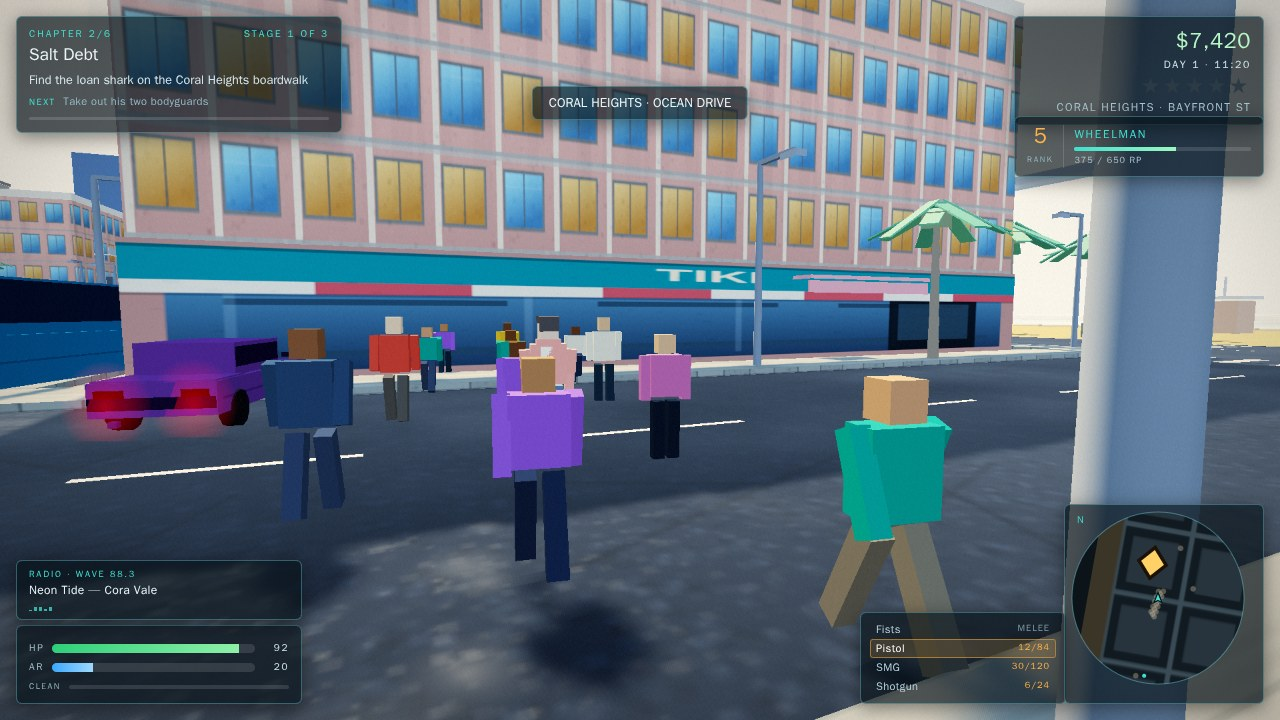
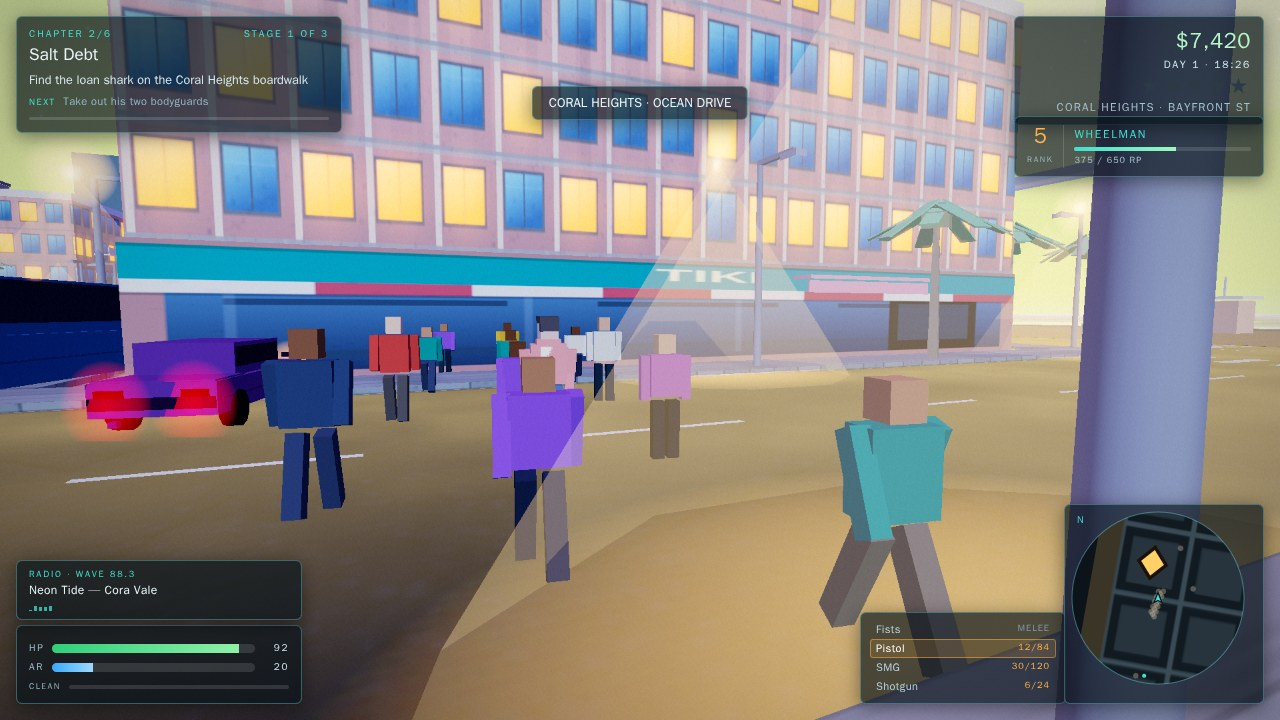
Frame a dedicated cover shot with hero lighting and a title block

diff --git a/game/src/systems/shots.js b/game/src/systems/shots.js
@@ -64,7 +64,7 @@ export class Autopilot {
  * The yaw figures are tuned against the lens, not picked by eye: at 64 degrees vertical over 16:9
  * the horizontal half angle is 48 degrees, so the third line sits about 0.35 rad off axis.
  */
-function frameShot(game, world, { fov = 64, distance = 0, height = -0.4, yaw = 0, lateral = 0, aim = 0, target = 0, exposure = 1 } = {}) {
+function frameShot(game, world, { fov = 64, distance = 0, height = -0.4, yaw = 0, lateral = 0, aim = 0, target = 0, exposure = 1, roll = 0 } = {}) {
   world.camera.fov = fov;
   world.camera.updateProjectionMatrix();
   world.post.exposureScale = exposure;
@@ -75,6 +75,7 @@ function frameShot(game, world, { fov = 64, distance = 0, height = -0.4, yaw = 0
   rig.lateralBias = lateral;
   rig.aimBias = aim;
   rig.targetBias = target;
+  rig.rollBias = roll;
 }
 
 /** Give the player a car at a spot, already seated, so the driving shots start in the driver's seat. */
@@ -249,7 +250,7 @@ export function redressChase(game, world) {
 /* ------------------------------------------------------------------ foot: daytime sidewalk */
 
 export function setupFoot(game, world) {
-  world.day.setHour(11.3);
+  world.day.setHour(18.4);
   game.money = 7420;
   game.rep = 2975;
   game.health = 92;
@@ -267,8 +268,9 @@ export function setupFoot(game, world) {
   game.walker.yaw = Math.PI / 2;
   // wide and low, walker on the left third: the subtitle box sits dead centre at the bottom of the
   // frame, so the camera stays far enough back to keep the whole body above it while the extra
-  // lens width carries the street either side.
-  frameShot(game, world, { distance: 2.4, height: -0.5, yaw: 0.18, lateral: 1.2, aim: -2.6, target: -0.45 });
+  // lens width carries the street either side. Dusk now, so the exposure comes down off the
+  // midday key: the shot is graded to sit with the other three, not to be the bright one.
+  frameShot(game, world, { distance: 2.4, height: -0.5, yaw: 0.18, lateral: 1.2, aim: -2.6, target: -0.45, exposure: 0.55 });
   game.rig.snap({ x: 196, z: 125.4, y: 0.19, yaw: Math.PI / 2, speed: 0, driving: false });
   quietMission(game, 1, 0);
   return {
@@ -401,6 +403,98 @@ export function redressDrive(game, world) {
   world.traffic.syncInstances(0.0001, world.day.lampGlow);
 }
 
+/* ------------------------------------------------------------------ cover: hero key art */
+
+/**
+ * The cover. Same coast road, same coupe, same hour as the drive still, but framed as key art
+ * rather than as a viewport: a longer 52 degree lens, the rig dropped below the boot line and swung
+ * 28 degrees off the rear axle onto the car's left rear quarter, so the coupe lands on the left
+ * third and the boulevard, the palms and the setting sun open across the right two thirds. A degree
+ * and a half of roll keeps the horizon off the pixel grid.
+ *
+ * The car is still rolling, slowly, for two reasons that show up in the pixels: the wheels turn and
+ * the headlights and tail lamps are live rather than parked geometry.
+ */
+export function setupCover(game, world) {
+  world.day.setHour(17.9);
+  game.money = 12980;
+  game.rep = 4285;
+  game.health = 100;
+  game.armour = 60;
+  game.weapon.select('pistol');
+  game.wanted = 0;
+  game.police.wanted = 0;
+  const x = CITY_HALF - 3.4;
+  const z = 150;
+  seatPlayer(game, 'coupe', x, z, Math.PI);
+  frameShot(game, world, {
+    fov: 52,
+    distance: -3.4,
+    height: -1.9,
+    yaw: 0.49,
+    lateral: 0,
+    aim: -3.2,
+    target: -0.9,
+    exposure: 0.40,
+    roll: 0.0262,
+  });
+  // slow roll: a second and a bit of throttle, then coasting, so the car ends the run at roughly
+  // 35 km/h — the wheels are turning and the lamps are live, but nothing is a blur
+  game.carPhysics.vx = 0;
+  game.carPhysics.vz = -7;
+  game.carPhysics.speed = 7;
+  quietMission(game, 2, 2);
+  return {
+    seconds: 2.4,
+    script: (t, ap) => {
+      ap.set(t < 1.3 ? ['forward'] : []);
+    },
+  };
+}
+
+/**
+ * The cover re-dress: almost nothing in frame. A cover wants one subject and clean road, so the
+ * traffic that fills the drive still is pulled back to two distant cars and the beach keeps a
+ * couple of silhouettes. No police, no toast — the HUD is hidden for this shot anyway.
+ */
+export function redressCover(game, world) {
+  const car = game.car.group.position;
+  const yaw = game.car.group.rotation.y;
+  const fx = Math.sin(yaw);
+  const fz = Math.cos(yaw);
+  const rx = Math.cos(yaw);
+  const rz = -Math.sin(yaw);
+
+  const layout = [
+    { ahead: 44, side: 0, flip: 0 },
+    { ahead: 68, side: 0, flip: 0 },
+    { ahead: 38, side: 6.8, flip: Math.PI },
+  ];
+  layout.forEach((l, i) => {
+    const c = trafficAt(world, i);
+    if (!c) return;
+    parkTrafficCar(world, c, car.x + fx * l.ahead + rx * l.side, car.z + fz * l.ahead + rz * l.side, yaw + l.flip);
+  });
+  // everything else in the pool goes home, so no car is parked on the cover's sightline
+  for (let i = layout.length; i < world.traffic.cars.length; i++) {
+    const c = world.traffic.cars[i];
+    if (c) parkTrafficCar(world, c, car.x + fx * -220, car.z + fz * -220, yaw);
+  }
+
+  for (let i = 0; i < 6; i++) {
+    const p = pedAt(world, i);
+    if (!p) continue;
+    const along = 4 + i * 5.5;
+    const out = 16 + (i % 3) * 5;
+    p.pinned = { x: car.x + fx * along + rx * out, z: car.z + fz * along + rz * out, yaw: yaw + Math.PI / 2 };
+    p.dead = false;
+    p.panic = 0;
+  }
+
+  world.pedestrians.update(0.0001, 0);
+  world.traffic.syncInstances(0.0001, world.day.lampGlow);
+}
+
 /* ------------------------------------------------------------------ mission: firefight */
 
 export function setupMission(game, world) {
@@ -495,6 +589,7 @@ export function redressMission(game, world) {
 }
 
 export const SHOTS = {
+  cover: { setup: setupCover, redress: redressCover },
   chase: { setup: setupChase, redress: redressChase },
   foot: { setup: setupFoot, redress: redressFoot },
   drive: { setup: setupDrive, redress: redressDrive },

diff --git a/game/src/render/lighting.js b/game/src/render/lighting.js
@@ -141,6 +141,87 @@ export class DayCycle {
 }
 
 /**
+ * Two lights that exist only for the cover frame: a warm key raking in from camera-left at 45
+ * degrees and a cool rim from behind the car. Neither casts a shadow — the sun already owns the
+ * shadow map, and the point of these is separation, not a second set of contact shadows.
+ *
+ * They are built switched off and only the cover shot turns them on, so every other still keeps the
+ * exact lighting it was graded with.
+ */
+export class HeroLights {
+  constructor(scene) {
+    this.scene = scene;
+    // warm, from the sunset side but off the sun's own axis so it reads as a second source
+    this.key = new THREE.DirectionalLight(0xffc48a, 0);
+    this.key.castShadow = false;
+    scene.add(this.key);
+    scene.add(this.key.target);
+    // cool, from the opposite quarter: this is what draws a bright edge down the car's flank
+    this.rim = new THREE.DirectionalLight(0x9ec8ff, 0);
+    this.rim.castShadow = false;
+    scene.add(this.rim);
+    scene.add(this.rim.target);
+    this.on = false;
+    this.left = new THREE.Vector3();
+    this.dir = new THREE.Vector3();
+    this.focus = new THREE.Vector3();
+  }
+
+  /** Switch the rig on or off for the frame; `focus` is the car the lights are aimed at. */
+  set(enabled) {
+    this.on = enabled;
+    this.key.visible = enabled;
+    this.rim.visible = enabled;
+  }
+
+  /**
+   * Place both lights relative to the final camera and the car, so the key is always camera-left at
+   * 45 degrees and the rim is always behind the car regardless of where the rig ended up.
+   */
+  update(camera, focus) {
+    if (!this.on || !focus) return;
+    this.focus.copy(focus);
+    // camera-left in world space: the camera's local -X axis
+    this.left.set(-1, 0, 0).applyQuaternion(camera.quaternion);
+    this.left.y = 0;
+    if (this.left.lengthSq() < 1e-6) this.left.set(0, 0, 1);
+    this.left.normalize();
+
+    // 45 degrees to the camera axis, on the camera's left, then 45 degrees up. The base vector has
+    // to point from the car back toward the camera: keying from the far side of the subject puts the
+    // light beyond it and lights nothing the lens can see.
+    const c45 = Math.cos(Math.PI / 4);
+    const s45 = Math.sin(Math.PI / 4);
+    this.dir.copy(camera.position).sub(this.focus);
+    this.dir.y = 0;
+    if (this.dir.lengthSq() < 1e-6) this.dir.set(0, 0, 1);
+    this.dir.normalize();
+    const hx = this.dir.x * c45 + this.left.x * s45;
+    const hz = this.dir.z * c45 + this.left.z * s45;
+    this.dir.set(hx, 0, hz).normalize();
+    this.dir.multiplyScalar(c45);
+    this.dir.y = s45;
+    this.dir.normalize();
+    this.key.position.copy(this.focus).addScaledVector(this.dir, 34);
+    this.key.target.position.copy(this.focus);
+    this.key.target.updateMatrixWorld();
+    this.key.intensity = 3.4;
+
+    // rim: from the far side of the car as seen from the camera, lifted a little
+    this.dir.copy(this.focus).sub(camera.position);
+    this.dir.y = 0;
+    if (this.dir.lengthSq() < 1e-6) this.dir.set(0, 0, 1);
+    this.dir.normalize();
+    this.dir.y = 0.42;
+    this.dir.normalize();
+    this.rim.position.copy(this.focus).addScaledVector(this.dir, 30);
+    this.rim.target.position.copy(this.focus);
+    this.rim.target.updateMatrixWorld();
+    this.rim.intensity = 1.6;
+  }
+}
+
+/**
  * A soft fill light riding on the camera. Night streets are lit by lamps that rarely point at the
  * hero, so a low-intensity, shadowless key from over the camera's shoulder is what keeps the player
  * character and their car readable in a night frame without flattening the whole scene.

diff --git a/game/src/main.js b/game/src/main.js
@@ -4,7 +4,7 @@
 import * as THREE from '../vendor/three.module.min.js';
 import { createRenderer, createCamera, handleResize, sizeForShot, PostPipeline } from './render/renderer.js';
 import { SkyDome } from './render/sky.js';
-import { DayCycle, CameraFillLight } from './render/lighting.js';
+import { DayCycle, CameraFillLight, HeroLights } from './render/lighting.js';
 import { Effects } from './render/effects.js';
 import { City } from './world/city.js';
 import { Buildings } from './world/buildings.js';
@@ -36,6 +36,8 @@ const sky = new SkyDome(scene);
 const day = new DayCycle(scene);
 const effects = new Effects(scene);
 const fill = new CameraFillLight(scene);
+// cover-only key + rim rig; built switched off, so no other shot is lit by it
+const hero = new HeroLights(scene);
 const audio = new AudioEngine();
 
 const city = new City(scene, seed);
@@ -47,7 +49,7 @@ const collision = new CollisionWorld(city);
 const pedestrians = new Pedestrians(scene, city, collision, seed + 5, 96);
 const traffic = new TrafficSystem(scene, city, seed + 6, 38);
 
-const world = { scene, city, buildings, props, coast, skyline, collision, day, effects, audio, camera, pedestrians, traffic, seed, sky, post };
+const world = { scene, city, buildings, props, coast, skyline, collision, day, effects, audio, camera, pedestrians, traffic, seed, sky, post, hero };
 const game = new Game(world);
 
 // Development aid: ?hide=nameA,nameB switches named objects off, used to bisect a bad frame.
@@ -99,6 +101,8 @@ function runShot(name) {
   const autopilot = new Autopilot();
   const setup = shot.setup(game, world);
   game.hud.show(true);
+  // the cover is key art, not a capture: every HUD panel goes away and the title block takes over
+  document.body.classList.toggle('cover-shot', name === 'cover');
   document.getElementById('title')?.classList.remove('on');
   sizeForShot(renderer, camera, 1280, 720);
 
@@ -117,6 +121,9 @@ function runShot(name) {
     ? { x: game.car.group.position.x, z: game.car.group.position.z, y: 0, yaw: game.car.group.rotation.y, speed: Math.abs(game.carPhysics.speed), driving: true }
     : { x: game.walker.x, z: game.walker.z, y: game.walker.y, yaw: game.walker.yaw, speed: 0, driving: false });
   fill.update(camera, day.night);
+  // hero key + rim: cover only, placed from the pose the camera actually settled on
+  world.hero.set(name === 'cover');
+  world.hero.update(camera, game.driving ? game.car.group.position : game.walker);
   sky.follow(camera);
   updateHud();
   game.hud.tick(0.016);

diff --git a/game/index.html b/game/index.html
@@ -116,6 +116,18 @@
   #speedo { bottom: 108px; }
   #speedo .spec { font-size: 9px; letter-spacing: 1.3px; color: #93b6c2; margin-top: 2px; }
   #speedo .dmgTxt { font-size: 8.5px; letter-spacing: 1.3px; color: var(--amber); margin-top: 3px; }
+
+  /* --- cover key art: no HUD, a title block instead ------------------------------------------- */
+  /* Hidden unless the cover shot asks for it, so the playable game never sees this. */
+  #cover-title { position: fixed; left: 56px; bottom: 52px; display: none; z-index: 4; pointer-events: none; }
+  #cover-title .name { font-size: 58px; font-weight: 800; line-height: .96; letter-spacing: 14px;
+    color: #fff5e6; text-shadow: 0 8px 34px rgba(4,8,14,.72), 0 0 2px rgba(0,0,0,.5); }
+  #cover-title .rule { width: 268px; height: 1px; margin: 15px 0 13px;
+    background: linear-gradient(90deg, rgba(255,196,138,.95), rgba(255,196,138,.12)); }
+  #cover-title .sub { font-size: 11.5px; font-variant: small-caps; letter-spacing: 5.2px;
+    color: #ffd9b0; text-shadow: 0 2px 12px rgba(4,8,14,.85); }
+  body.cover-shot #hud { display: none; }
+  body.cover-shot #cover-title { display: block; }
 </style>
 </head>
 <body>
@@ -176,6 +188,12 @@
   <div id="banner" class="panel"><div class="t" id="banTag">MISSION COMPLETE</div><div class="n" id="banName">—</div><div class="r" id="banReward">—</div></div>
   <div id="toast" class="panel">—</div>
   <div id="help">WASD move · SHIFT sprint · E enter/exit · F fire · Q weapon · H horn · C handbrake · ESC pause</div>
+</div>
+
+<div id="cover-title">
+  <div class="name">VICE HARBOR</div>
+  <div class="rule"></div>
+  <div class="sub">An open-world crime sandbox</div>
 </div>
 
 <div id="title" class="screen on">

diff --git a/game/src/systems/camera.js b/game/src/systems/camera.js
@@ -25,6 +25,9 @@ export class CameraRig {
     // frame, because the rig re-aims at a point ahead of the subject and the two cancel out. Aiming
     // past the subject is what puts it on a third.
     this.aimBias = 0;
+    // Shot-only camera roll, in radians, applied after lookAt: a couple of degrees of tilt is the
+    // difference between a frame that reads as a viewport and one that reads as a still.
+    this.rollBias = 0;
     this.shake = 0;
     this.desired = new THREE.Vector3();
     this.targetDesired = new THREE.Vector3();
@@ -107,6 +110,8 @@ export class CameraRig {
 
     this.camera.position.copy(this.position);
     this.camera.lookAt(this.target);
+    // local Z is the view axis after lookAt, so this is a true roll rather than a yaw
+    if (this.rollBias) this.camera.rotateZ(this.rollBias);
     this.initialised = true;
   }
 
